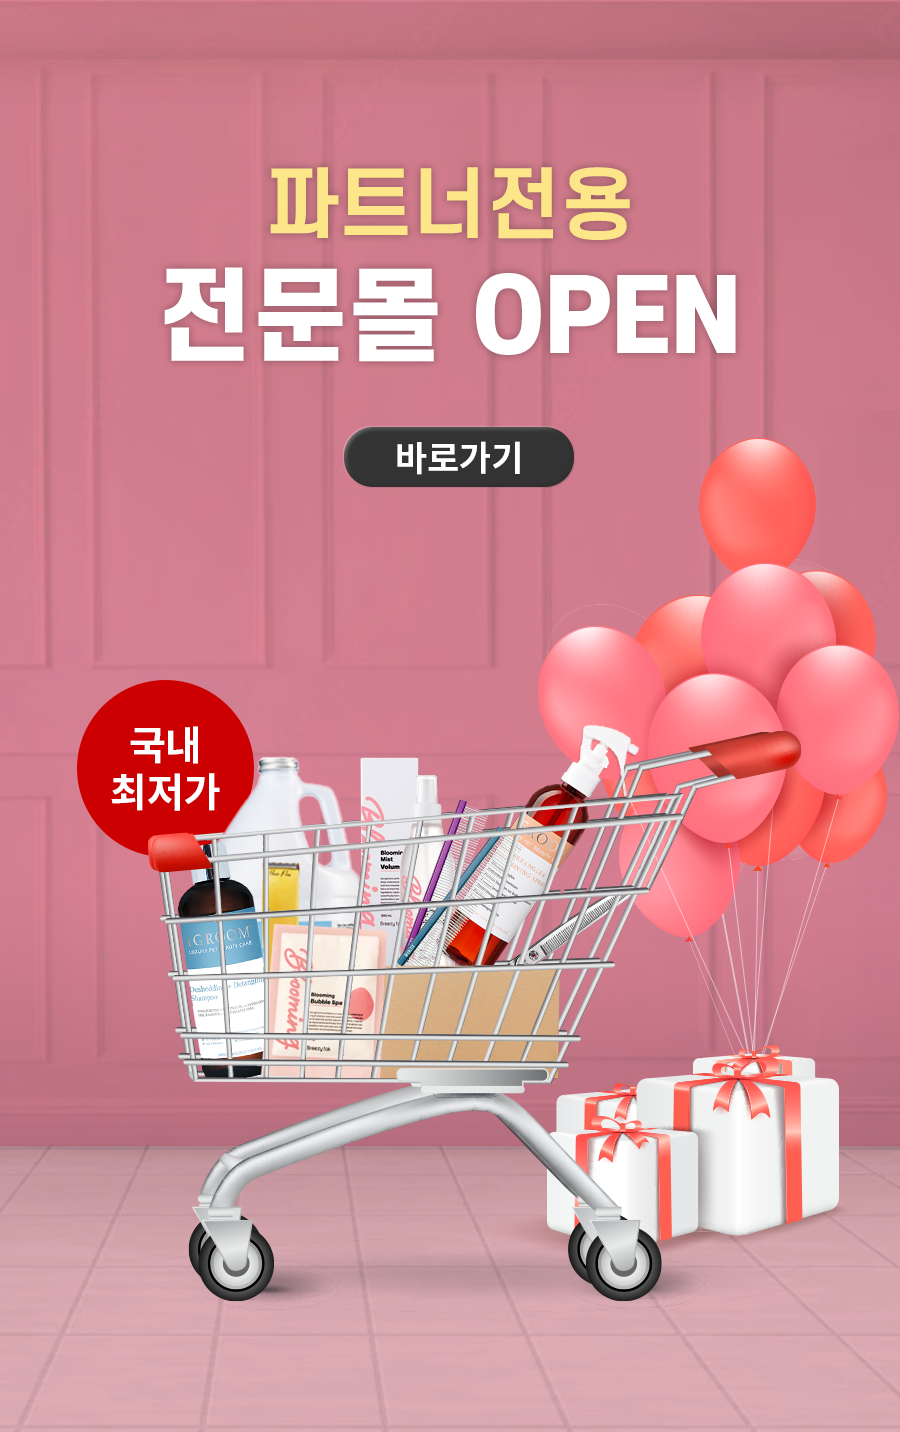
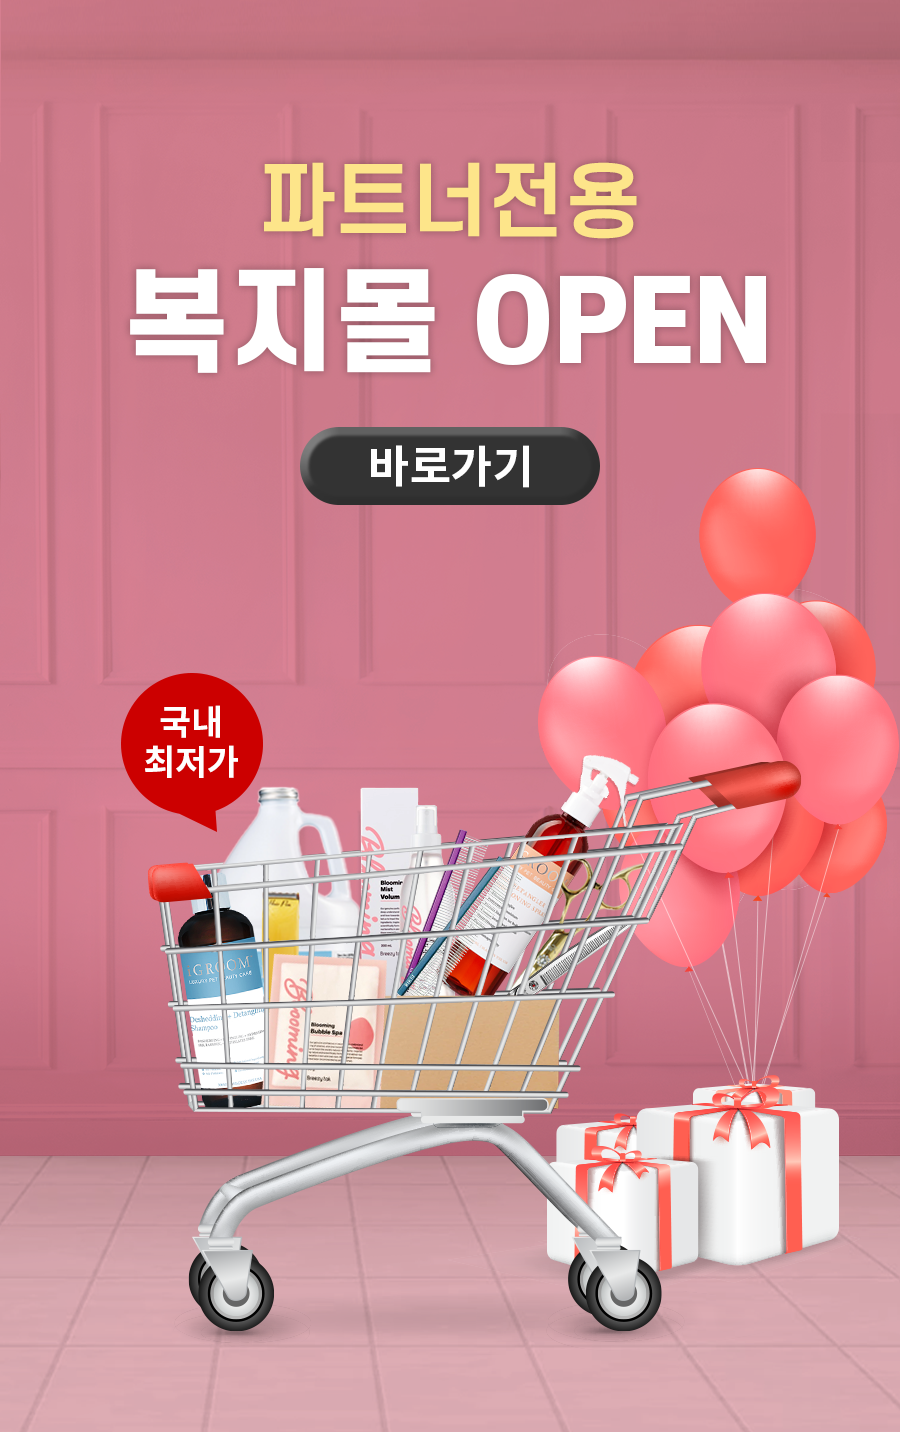
전문몰 > 복지몰로 변경
배너+팝업수정, 월간 하단 배너 추가, mall 타이틀 수정

Changed region(s): [[0.0, 0.3073, 1.0, 0.9525], [0.1244, 0.0922, 0.8711, 0.3687], [0.9333, 0.7989, 1.0, 0.8296]]

diff --git a/shop_mall.html b/shop_mall.html
@@ -81,7 +81,7 @@ $_SESSION['backurl2'] = $_SERVER[ "REQUEST_URI" ];
     <div class="header-left">
         <a href="home_main" class="btn-page-ui btn-page-prev"><div class="icon icon-size-24 icon-page-prev">페이지 뒤로가기</div></a>
     </div>
-    <div class="page-title">반짝 전문몰</div>
+    <div class="page-title">반짝 복지몰</div>
     <div class="header-right">
         <a href="shop_search_list" class="btn-page-ui btn-page-search"><div class="icon icon-size-24 icon-page-search">검색</div></a>
     </div>

diff --git a/reserve_main_month.html b/reserve_main_month.html
@@ -940,6 +940,11 @@ while ($o_rows = mysqli_fetch_assoc($o_result)) {
                     </div>
                 </div>
                 <!-- //캘린더 상세 -->
+
+                <!-- 전문몰(복지몰) 바로가기 배너 -->
+                <div class="partner-middle-banner_bg">
+                    <a href="shop_mall"><img src="../images/partner_ban_01.png"></a>
+                </div>
             </div>
             <?php include($_SERVER['DOCUMENT_ROOT']."/bottom_msg_list.php"); ?>
         </div>
